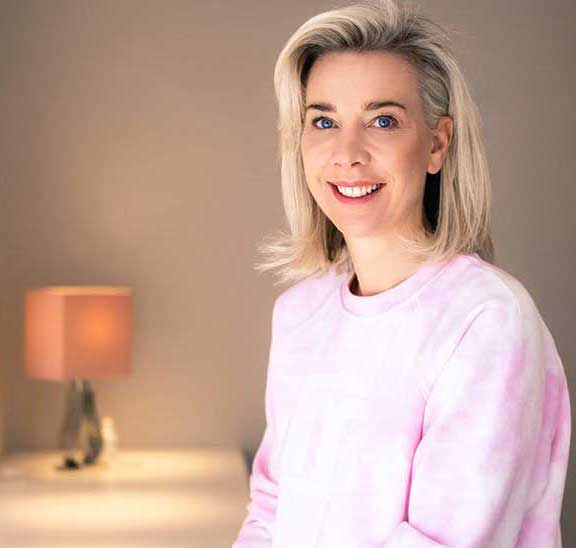
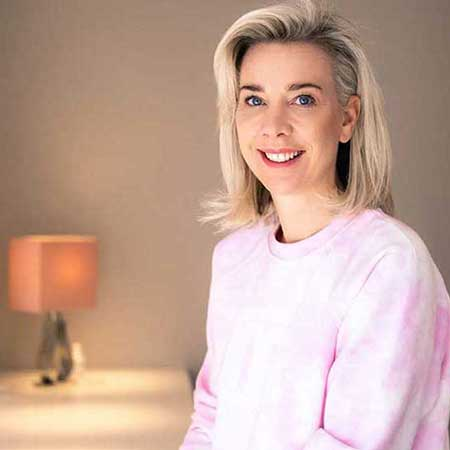
update hero image

diff --git a/src/page-components/home/index.js b/src/page-components/home/index.js
@@ -60,7 +60,7 @@ Volg je mij al op <a href="https://www.facebook.com/annieklambrechtskincoach/?re
           </Button>
           </Link>
           </HeroText>
-          <HeroImage src="/static/homepage.jpg" alt="anniek lambrecht" width="576" height="548" />
+          <HeroImage src="/static/homepage.jpg" alt="anniek lambrecht" width="450" height="450" />
         </HeroSection>
         <SubSection>
           <Link href="/behandelingen" passHref>

diff --git a/src/page-components/home/styles.js b/src/page-components/home/styles.js
@@ -49,7 +49,6 @@ export const HeroText = styled.div`
   display: flex;
   flex-direction: column;
   justify-content: space-between;
-  padding: 0 20px;
 
   ${responsive.smAndLess} {
     width: 100%;
